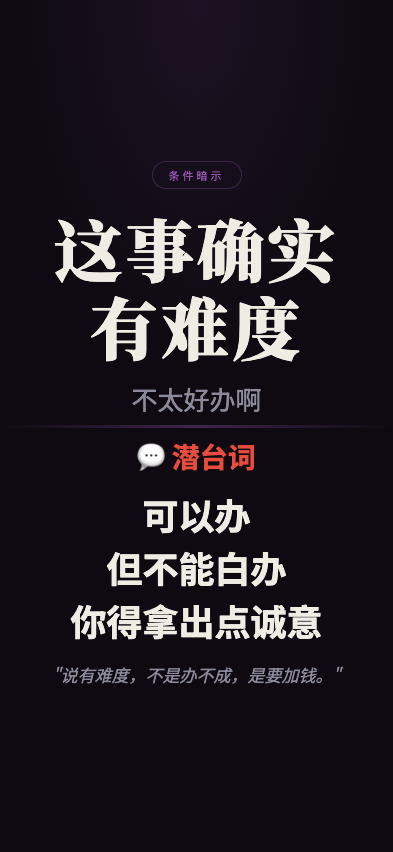
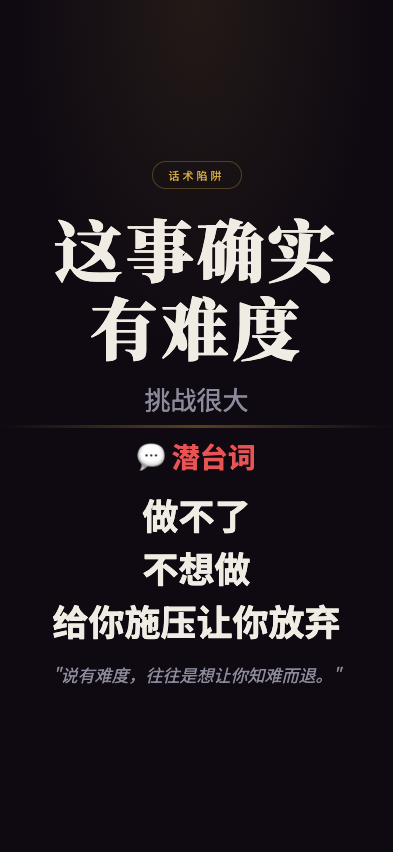
feat: 职场生存法则 screenshot - zheshiqueshiyounandu

Changed region(s): [[0.1221, 0.5798, 0.855, 0.8239], [0.3053, 0.4577, 0.6718, 0.5188], [0.4275, 0.1831, 0.5802, 0.2136]]

diff --git a/wuliao-tools/tools/biz-speak/scenes/zheshiqueshiyounandu.html b/wuliao-tools/tools/biz-speak/scenes/zheshiqueshiyounandu.html
@@ -10,8 +10,8 @@
     --bg: #0f0a12;
     --text: #f0ece4;
     --text-dim: #8a8a9a;
-    --gold: #9b59b6;
-    --red: #e74c3c;
+    --gold: #d4a843;
+    --red: #e85454;
   }
   * { margin:0; padding:0; box-sizing:border-box; }
   html, body { width:100%; height:100%; overflow:hidden; }
@@ -24,11 +24,11 @@
   }
   body::before {
     content:''; position:absolute; top:0; left:0; right:0; height:45%;
-    background:radial-gradient(ellipse at 50% 0%, rgba(155,89,182,0.1) 0%, transparent 65%);
+    background:radial-gradient(ellipse at 50% 0%, rgba(212,168,67,0.1) 0%, transparent 65%);
     pointer-events:none; z-index:0;
   }
   .top { flex:1; display:flex; flex-direction:column; align-items:center; justify-content:flex-end; padding:4px 28px 8px; position:relative; z-index:1; }
-  .tag { font-size:11px; letter-spacing:3px; color:var(--gold); border:1px solid rgba(155,89,182,0.3); padding:5px 16px; border-radius:50px; margin-bottom:20px; }
+  .tag { font-size:11px; letter-spacing:3px; color:var(--gold); border:1px solid rgba(212,168,67,0.3); padding:5px 16px; border-radius:50px; margin-bottom:20px; }
   .main-title { font-family:'Noto Serif SC'; font-size:68px; font-weight:900; text-align:center; line-height:1.15; letter-spacing:3px; min-width:0; overflow-wrap:break-word; max-width:92%; }
   .sub-title { font-size:26px; color:var(--text-dim); text-align:center; margin-top:14px; }
   .divider { width:100%; height:3px; background:linear-gradient(90deg,transparent,var(--gold),transparent); opacity:0.35; flex-shrink:0; position:relative; z-index:1; }
@@ -41,19 +41,19 @@
 </head>
 <body>
   <div class="top">
-    <div class="tag">条件暗示</div>
+    <div class="tag">话术陷阱</div>
     <div class="main-title">这事确实有难度</div>
-    <div class="sub-title">不太好办啊</div>
+    <div class="sub-title">挑战很大</div>
   </div>
   <div class="divider"></div>
   <div class="bottom">
     <div class="truth-label">💬 潜台词</div>
     <div class="truth-lines">
-      <div class="truth-line">可以办</div>
-      <div class="truth-line">但不能白办</div>
-      <div class="truth-line">你得拿出点诚意</div>
+      <div class="truth-line">做不了</div>
+      <div class="truth-line">不想做</div>
+      <div class="truth-line">给你施压让你放弃</div>
     </div>
-    <div class="quote">"说有难度，不是办不成，是要加钱。"</div>
+    <div class="quote">"说有难度，往往是想让你知难而退。"</div>
   </div>
 </body>
 </html>
